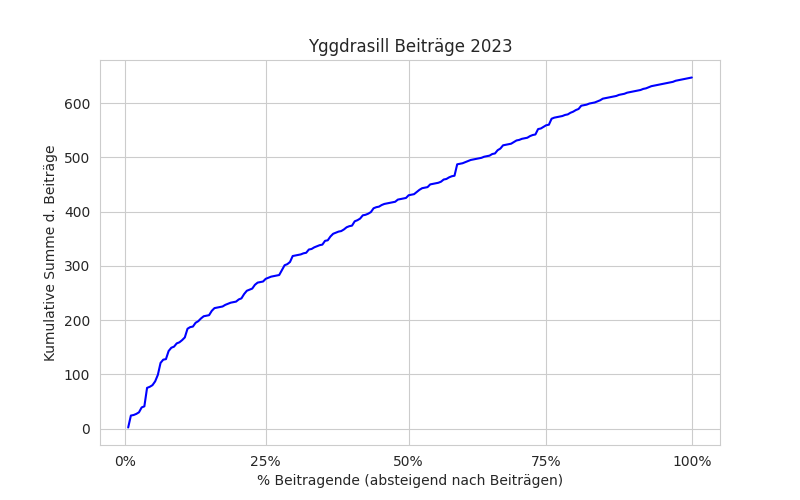
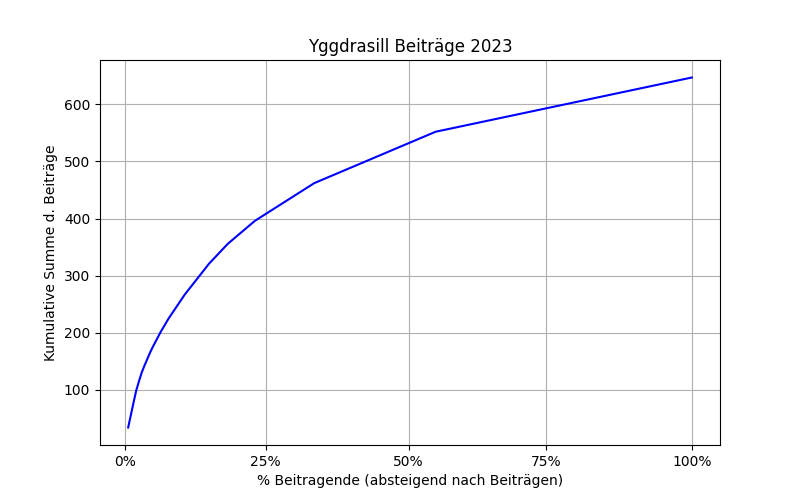
ygg2023

diff --git a/short_articles/ygg_2023/yggdrasill2023.md b/short_articles/ygg_2023/yggdrasill2023.md
@@ -59,7 +59,7 @@ Bei dem zweithäufigsten Thema "Religionswissenschaftliche Lehre und KI" ging es
 Beim dritten Thema "Déjà-vu: Zeugen Jehovas und Sektendebatte" war der Ausgangspunkt die Tat eines Amokläufers, die in überregionalen Medien im Kontext der "Zeugen Jehovas" als negativ bewerteter "Sekte" diskutiert und eingeordnet wurde. Dies wurde als Ausgangspunkt genommen, allgemein über den Sektenbegriff und die (nicht-religionswissenschaftliche) pejorative Darstellung von religiösen Gruppierungen und Minderheiten in der Gesellschaft zu diskutieren. Bezeichnend ist, dass aus einer textstatistischen Perspektive Begriffe aus dem Bereich der Gewalt dominierten, darunter "Täter", "Gewalt", "Opfer", "Terrorismus" und "Mord".
 
 ### Anzahl der Beitragenden
-Der automatisierten Auswertung zufolge wurden Beiträge von **210** verschiedenen E-Mail Adressen gesendet. Dies entspricht jedoch *nicht* 210 individuellen Beitragenden, da einige Personen Beiträge von unterschiedlichen Mailadressen gesendet haben. Im Falle von 210 Personen würde dies einem durchschnittlichen Beitragsmenge von ca. 3 Posts/Person entsprechen. Der folgende Plot mit der kumulativen Summe der Beiträge/Person (absteigend beginnend mit der Person bzw. Mailadresse mit den meisten Beiträgen) zeigt jedoch, dass knapp ein Drittel der Beitragenden/Adressen die Hälfte aller Beiträge auf Yggdrasill veröffentlicht hat, was in Anbetracht der absoluten Zahlen (ca. 69 Personen bzw. Adressen) auf eine recht große Community verweist, die keineswegs nur aus wenigen Power-Beitragenden besteht.
+Der automatisierten Auswertung zufolge wurden Beiträge von **210** verschiedenen E-Mail Adressen gesendet. Dies entspricht jedoch *nicht* 210 individuellen Beitragenden, da einige Personen Beiträge von unterschiedlichen Mailadressen gesendet haben. Im Falle von 210 Personen würde dies einem durchschnittlichen Beitragsmenge von ca. 3 Posts/Person entsprechen. Der folgende Plot mit der kumulativen Summe der Beiträge/Person (absteigend beginnend mit der Person bzw. Mailadresse mit den meisten Beiträgen) zeigt jedoch, dass knapp ein Viertel der Beitragenden/Adressen beinahe zwei Drittel aller Beiträge auf Yggdrasill veröffentlicht hat, was in Anbetracht der absoluten Zahlen (ca. 52 Personen bzw. Adressen) auf eine recht große Community verweist, die keineswegs nur aus wenigen Power-Beitragenden besteht.
 
 ![Kumulative Summe der Beiträge auf Yggdrasill 2023.](cumsum_2023.png)
 
